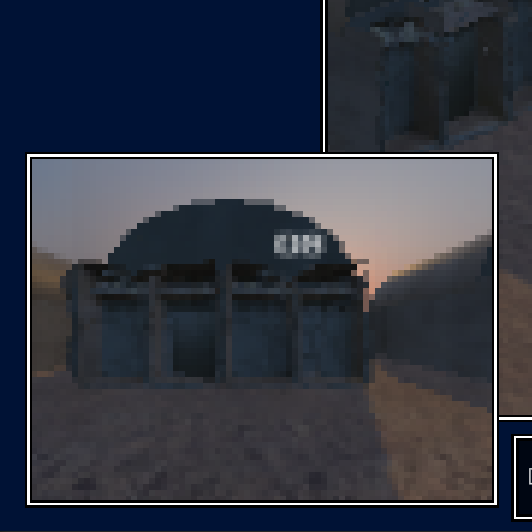
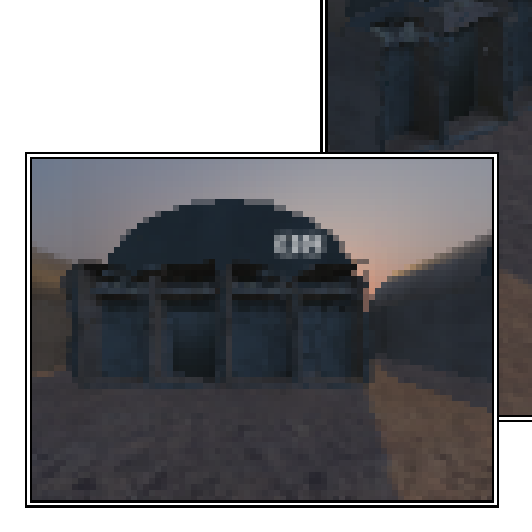
change color and font theme

Changed region(s): [[0.0, 0.0, 1.0, 1.0]]

diff --git a/homepage.css b/homepage.css
@@ -5,13 +5,16 @@
 
 body {
 
-        background-color: rgb(255, 255, 255);
+        /*background-color: rgb(255, 255, 255);*/
+        background-color: #15131a;
+        color: white;
 
         -webkit-background-size: cover;
         -moz-background-size: cover;
         -o-background-size: cover;
         background-size: cover;
-        font-family:'Lucida Sans', 'Lucida Sans Regular', 'Lucida Grande', 'Lucida Sans Unicode', Geneva, Verdana, sans-serif;
+        /*font-family:'Lucida Sans', 'Lucida Sans Regular', 'Lucida Grande', 'Lucida Sans Unicode', Geneva, Verdana, sans-serif;*/
+        font-family: serif;
 }
 
 a {
@@ -19,15 +22,15 @@ a {
 }
 
 a:link, a:visited {
-    color: red;
+    color: #dd4a4a;
 }
 
 a:hover {
-    color: darkred;
+    color: #ffd8d8;
 }
 
 a:active {
-    color:pink;
+    color:#dd4a4a;
 }
 
 h3 {
@@ -43,7 +46,7 @@ h4 {
 }
 
 hr {
-    color: lightpink;
+    color: rgb(255, 255, 255);
     size: 1px;
 }
 
@@ -94,11 +97,12 @@ hr {
 .fixed-footer{
     text-align: center;
     font-size: 1.5vh;
-    background: lightgray;
+    background: #0e0c11;
     bottom: 0;
     left: 0px;
     width: 100%;
     height:1vh;
+    color: white;
 }
 
 .sidebar-frame {
